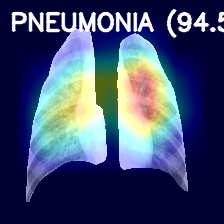
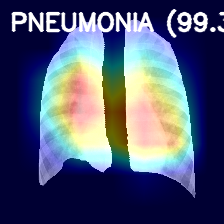
Add visual with and without segmentation analysis

diff --git a/gradcam.py b/gradcam.py
@@ -138,6 +138,137 @@ def generate_gradcam(image_path, model_path, device):
     return output_path
 
 
+def generate_gradcam_raw(image_path, model_path, device):
+    """Generate Grad-CAM heatmap using the original image (no segmentation)."""
+
+    # ----------------------------
+    # Load model
+    # ----------------------------
+    model = build_model(device, model_name="efficientnet")
+    model.load_state_dict(torch.load(model_path, map_location=device))
+    model.eval()
+
+    # ----------------------------
+    # Select correct target layer
+    # ----------------------------
+    if hasattr(model, "layer4"):          # ResNet
+        target_layer = model.layer4
+    else:                                  # EfficientNet
+        target_layer = model.features[-1]
+
+    gradients = []
+    activations = []
+
+    # ----------------------------
+    # Hook functions
+    # ----------------------------
+    def backward_hook(module, grad_in, grad_out):
+        gradients.append(grad_out[0])
+
+    def forward_hook(module, input, output):
+        activations.append(output)
+
+    target_layer.register_forward_hook(forward_hook)
+    target_layer.register_full_backward_hook(backward_hook)
+
+    # ----------------------------
+    # Use original image (NO segmentation)
+    # ----------------------------
+    original_image = Image.open(image_path).convert("RGB")
+
+    # ----------------------------
+    # Image preprocessing
+    # ----------------------------
+    transform = transforms.Compose([
+        transforms.Resize((224, 224)),
+        transforms.ToTensor(),
+        transforms.Normalize([0.485, 0.456, 0.406],
+                             [0.229, 0.224, 0.225])
+    ])
+
+    input_tensor = transform(original_image).unsqueeze(0).to(device)
+
+    # ----------------------------
+    # Forward pass
+    # ----------------------------
+    output = model(input_tensor)
+
+    probs = torch.softmax(output, dim=1)
+    confidence, pred_class = torch.max(probs, dim=1)
+
+    confidence = confidence.item()
+    pred_class = pred_class.item()
+
+    class_names = ["NORMAL", "PNEUMONIA"]
+    pred_label = class_names[pred_class]
+
+    # ----------------------------
+    # Backward pass
+    # ----------------------------
+    model.zero_grad()
+    output[0, pred_class].backward()
+
+    # ----------------------------
+    # Get gradients and activations
+    # ----------------------------
+    grads = gradients[0].cpu().data.numpy()[0]
+    acts = activations[0].cpu().data.numpy()[0]
+
+    # Global average pooling
+    weights = np.mean(grads, axis=(1, 2))
+
+    # Weighted combination
+    cam = np.zeros(acts.shape[1:], dtype=np.float32)
+    for i, w in enumerate(weights):
+        cam += w * acts[i]
+
+    cam = np.maximum(cam, 0)
+    cam = cam / (cam.max() + 1e-8)
+
+    # ----------------------------
+    # Create heatmap
+    # ----------------------------
+    cam = cv2.resize(cam, (224, 224))
+    heatmap = cv2.applyColorMap(np.uint8(255 * cam), cv2.COLORMAP_JET)
+
+    # Use original image as the base for overlay
+    original = cv2.resize(np.array(original_image), (224, 224))
+    original_bgr = cv2.cvtColor(original, cv2.COLOR_RGB2BGR)
+    superimposed_img = heatmap * 0.4 + original_bgr
+
+    # Convert properly
+    superimposed_img = np.clip(superimposed_img, 0, 255).astype(np.uint8)
+
+    # ----------------------------
+    # Add prediction text
+    # ----------------------------
+    text = f"{pred_label} ({confidence*100:.2f}%)"
+
+    cv2.putText(
+        superimposed_img,
+        text,
+        (10, 30),
+        cv2.FONT_HERSHEY_SIMPLEX,
+        0.8,
+        (255, 255, 255),
+        2,
+        cv2.LINE_AA
+    )
+
+    # ----------------------------
+    # Save output
+    # ----------------------------
+    os.makedirs("outputs", exist_ok=True)
+    output_path = "outputs/gradcam_raw_result.png"
+    cv2.imwrite(output_path, superimposed_img)
+
+    print("Raw Grad-CAM saved to outputs/gradcam_raw_result.png")
+    print(f"Prediction: {pred_label}")
+    print(f"Confidence: {confidence*100:.2f}%")
+
+    return output_path
+
+
 
 if __name__ == "__main__":
 
@@ -146,4 +277,4 @@ if __name__ == "__main__":
     image_path = "dataset_segmented/test/PNEUMONIA/person1004_virus_1686.jpeg"
     model_path = "models/efficientnet_best.pth"
 
-    generate_gradcam(image_path, model_path, device)
+    generate_gradcam(image_path, model_path, device)

diff --git a/app.py b/app.py
@@ -1,8 +1,14 @@
 import streamlit as st
 from PIL import Image
 import tempfile
-from predict import predict
+import torch
+from predict import predict, predict_raw
 from lung_segmentation import segment_lung
+from gradcam import generate_gradcam, generate_gradcam_raw
+
+
+device = torch.device("cuda" if torch.cuda.is_available() else "cpu")
+model_path = "models/efficientnet_best.pth"
 
 
 st.title("Pneumonia Detection from Chest X-ray")
@@ -32,20 +38,69 @@ if uploaded_file is not None:
 
     st.divider()
 
-    # --- Step 2: Prediction ---
-    st.subheader("Step 2 — Prediction")
+    # --- Step 2: Side-by-Side Comparison ---
+    st.subheader("Step 2 — Comparison: With vs Without Segmentation")
+    st.caption("The same model processes both the raw X-ray and the segmented version. Compare the predictions and Grad-CAM heatmaps to see how segmentation influences model behavior.")
 
-    prediction, confidence, heatmap_path = predict(image_path)
+    # Run both pipelines
+    with st.spinner("Running predictions..."):
+        # Without segmentation (raw image)
+        raw_prediction, raw_confidence = predict_raw(image_path)
+        raw_heatmap_path = generate_gradcam_raw(image_path, model_path, device)
 
-    st.write("Result:", prediction)
-    st.write("Confidence:", round(confidence*100,2), "%")
+        # With segmentation
+        seg_prediction, seg_confidence, seg_heatmap_path = predict(image_path)
+
+    col_raw, col_seg = st.columns(2)
+
+    with col_raw:
+        st.markdown("### 🔴 Without Segmentation")
+        st.metric(label="Prediction", value=raw_prediction)
+        st.metric(label="Confidence", value=f"{round(raw_confidence*100, 2)}%")
+        st.image(
+            Image.open(raw_heatmap_path),
+            caption="Grad-CAM — Full Image (may focus on non-lung areas)",
+            use_container_width=True
+        )
+
+    with col_seg:
+        st.markdown("### 🟢 With Segmentation")
+        st.metric(label="Prediction", value=seg_prediction)
+        st.metric(label="Confidence", value=f"{round(seg_confidence*100, 2)}%")
+        st.image(
+            Image.open(seg_heatmap_path),
+            caption="Grad-CAM — Segmented Lungs (focused on lung tissue)",
+            use_container_width=True
+        )
 
     st.divider()
 
-    # --- Step 3: Grad-CAM Explanation ---
-    st.subheader("Step 3 — GradCAM Explanation")
-    st.caption("Highlights the regions the model focused on to make its decision.")
+    # --- Step 3: Verdict ---
+    st.subheader("Step 3 — Analysis Verdict")
 
-    heatmap = Image.open(heatmap_path)
+    # Compare results
+    same_prediction = raw_prediction == seg_prediction
+    confidence_diff = abs(seg_confidence - raw_confidence) * 100
 
-    st.image(heatmap, caption="GradCAM Heatmap")
+    if same_prediction:
+        st.success(
+            f"✅ **Both pipelines agree:** {seg_prediction}\n\n"
+            f"- Without Segmentation: **{round(raw_confidence*100, 2)}%** confidence\n"
+            f"- With Segmentation: **{round(seg_confidence*100, 2)}%** confidence\n\n"
+            f"Confidence difference: **{round(confidence_diff, 2)}%**"
+        )
+    else:
+        st.warning(
+            f"⚠ **Pipelines disagree!**\n\n"
+            f"- Without Segmentation: **{raw_prediction}** ({round(raw_confidence*100, 2)}%)\n"
+            f"- With Segmentation: **{seg_prediction}** ({round(seg_confidence*100, 2)}%)\n\n"
+            f"This demonstrates that noise from non-lung regions can mislead the model. "
+            f"The segmented result is more reliable as it focuses exclusively on lung tissue."
+        )
+
+    st.info(
+        "💡 **Why segmentation matters:** Lung segmentation removes irrelevant structures "
+        "(ribs, diaphragm, cardiac silhouette) that can confuse the model. "
+        "Compare the Grad-CAM heatmaps above — the segmented version focuses its attention "
+        "on clinically relevant lung regions, leading to more trustworthy predictions."
+    )

diff --git a/predict.py b/predict.py
@@ -71,6 +71,31 @@ def predict(image_path):
 
 
 # -----------------------
+# Raw Prediction (No Segmentation)
+# -----------------------
+def predict_raw(image_path):
+
+    # Load original image directly (no segmentation)
+    img = Image.open(image_path).convert("RGB")
+
+    # Transform
+    img = transform(img).unsqueeze(0).to(device)
+
+    # Forward pass
+    with torch.no_grad():
+        outputs = model(img)
+        probs = F.softmax(outputs, dim=1)
+        confidence, pred = torch.max(probs, 1)
+
+    classes = ["NORMAL", "PNEUMONIA"]
+
+    prediction = classes[pred.item()]
+    confidence = confidence.item()
+
+    return prediction, confidence
+
+
+# -----------------------
 # Run Test
 # -----------------------
 if __name__ == "__main__":
